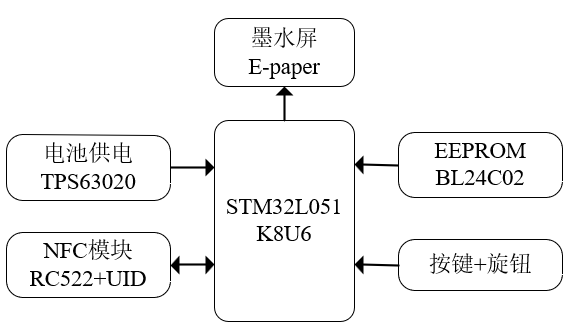
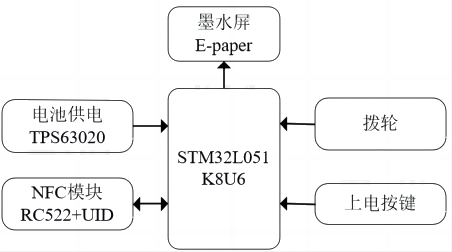
upload readme.md 2023.8.9

Changed region(s): [[0.3717, 0.0, 0.9912, 1.0], [0.0, 0.3889, 0.3717, 0.6389], [0.0, 0.6944, 0.3717, 0.9167]]

diff --git a/README.md b/README.md
@@ -1,3 +1,52 @@
 # OV-Card
 
-todo
+万能卡片，使用STM32L0和RC522设计的IC卡复制器，可以充当卡包。
+
+硬件开源链接：
+https://oshwhub.com/no_chicken/mo-neng-ka-pian-OV-Card
+
+视频演示链接：
+https://space.bilibili.com/34154740
+
+
+
+## 系统框图
+
+系统的硬件总体框图如下图所示
+
+<img src=".\images\系统框图.png" alt="系统框图" style="zoom:100%;" />
+
+主控: STM32L051K8U6，供电: TPS63020，显示：1.54寸200*200墨水屏
+
+如果不想买墨水屏，或者想要用超级久，可以使用超低功耗版本，只用LED进行显示。关于卡片信息存储，全部存储在MCU内部的EEPROM里。
+
+
+
+## 使用说明
+
+**！！！！！注意：请在上电前就切换好模式，请勿在通电时滑动开关切换模式！！！！！！**
+
+ 有3个用户可操作的硬件部分：
+
+1.通过按键按下上电，松开即断电。
+
+2.通过拨轮开关，上电后上下滑动，可以切换选择的位置（即切换卡片）。
+
+3.通过滑动开关切换模式。（通电时，请勿切换模式）
+
+切换模式说明：
+
+①滑到左边是复制模式，上电后可以在所选的存储位置，复制外部卡片，例如已选中门禁卡，只需将外部卡片靠近背面，即可将卡信息写入所选存储位置。
+
+②滑到右边是卡模拟模式，上电后，即将信息写入了IC卡中。只要保持滑动开关在右边，断电后仍然可以刷卡，即被外部读卡器读。
+
+<img src=".\images\操作图.jpg" alt="操作图" style="zoom:100%;" />
+
+## 原理说明
+
+功能框图，IC卡信息分区图如下所示。NFC模块通过RC522读取外部IC卡的卡号，即0扇区0区块的数据，然后存储至STM32L051内部的EEPROM中。滑动开关控制内部UID卡的线圈的开合，即加入了使能功能，通过NFC模块，将存储在EEPROM的卡号信息写入UID卡中，即实现了卡片复制功能。
+
+<img src=".\images\功能框图.png" alt="功能框图" style="zoom:100%;" />
+
+<img src=".\images\IC卡扇区.png" alt="IC卡扇区" style="zoom:100%;" />
+
